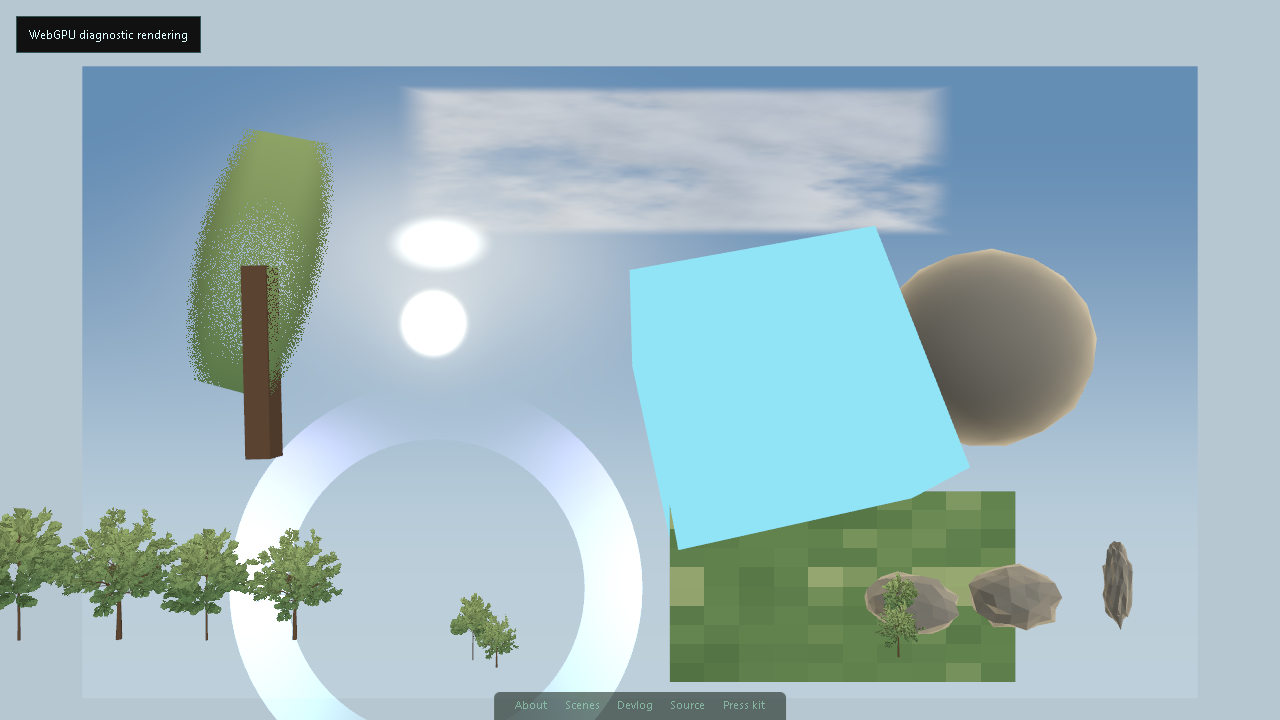
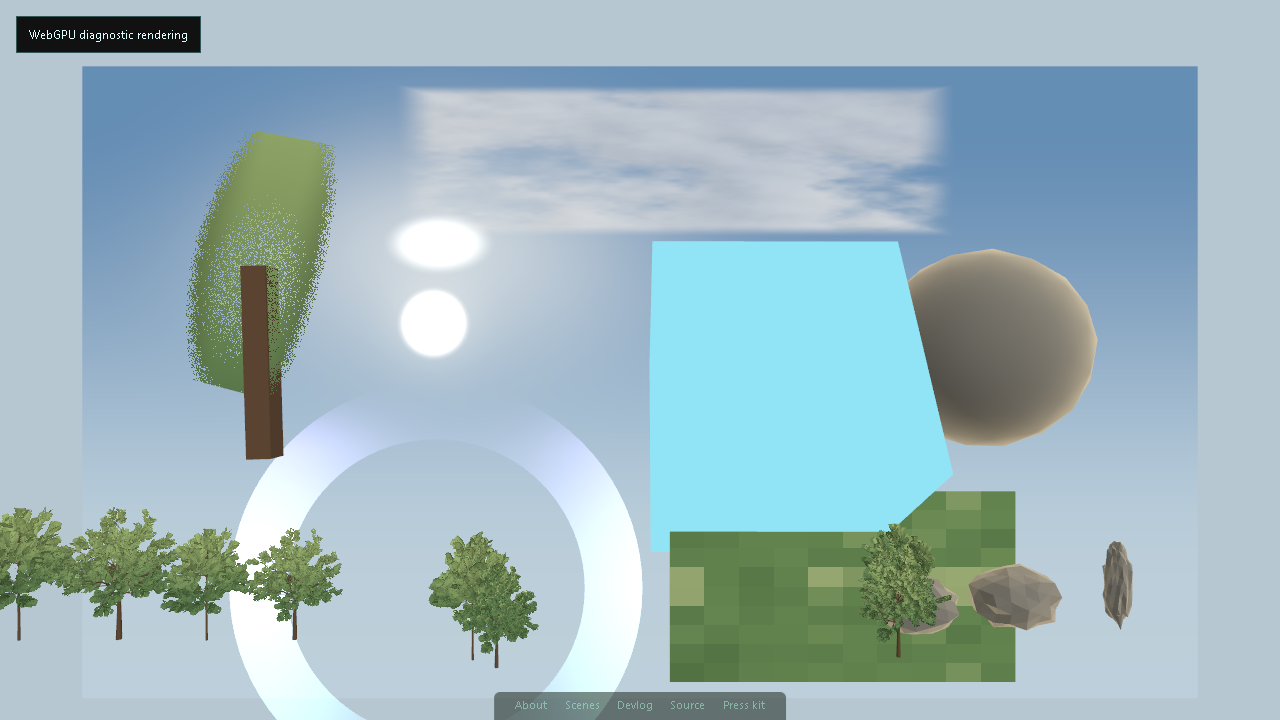
test(konveyor): prove diagnostic tree instancing

diff --git a/js/diagnostics/webgpuRuntimeGlbPreview.js b/js/diagnostics/webgpuRuntimeGlbPreview.js
@@ -176,6 +176,116 @@ function placeCloneOnGround(clone, display, { Box3, Vector3 }) {
     };
 }
 
+function collectInstancedMeshSources(root, { Matrix4 }) {
+    root.updateMatrixWorld(true);
+    const rootInverse = new Matrix4().copy(root.matrixWorld).invert();
+    const sources = [];
+
+    root.traverse((child) => {
+        if (!child.isMesh || !child.geometry) return;
+
+        child.updateMatrixWorld(true);
+        const localToRoot = new Matrix4().multiplyMatrices(rootInverse, child.matrixWorld);
+        const geometry = child.geometry.clone();
+        geometry.applyMatrix4(localToRoot);
+        geometry.computeBoundingBox();
+
+        sources.push({
+            meshName: child.name || '(unnamed)',
+            geometry,
+            material: child.material,
+            materialName: Array.isArray(child.material)
+                ? child.material.map((material) => material?.name || '(unnamed)').join(',')
+                : child.material?.name || '(unnamed)',
+            vertexCount: geometry.attributes?.position?.count ?? 0,
+        });
+    });
+
+    return sources;
+}
+
+function getRootBaseYOffset(root, { Box3 }) {
+    const box = new Box3().setFromObject(root);
+    return Number.isFinite(box.min.y) ? -box.min.y : 0;
+}
+
+function createProductionInstancingPreview({ scene, rootsByAsset, plan, extents, three }) {
+    const { Box3, InstancedMesh, Matrix4, Object3D } = three;
+    if (typeof InstancedMesh !== 'function') {
+        return {
+            roots: [],
+            summary: {
+                ok: false,
+                reason: 'webgpu-instanced-mesh-unavailable',
+            },
+        };
+    }
+
+    const roots = [];
+    const groups = [];
+    const missingTypes = [];
+    const dummy = new Object3D();
+
+    for (const type of plan.types) {
+        const samples = plan.samples.filter((sample) => sample.type === type);
+        const sourceRoot = rootsByAsset.get(`tree-lod0:${type}-lod0`);
+        if (!sourceRoot) {
+            missingTypes.push(type);
+            continue;
+        }
+
+        const baseYOffset = getRootBaseYOffset(sourceRoot, { Box3 });
+        const sources = collectInstancedMeshSources(sourceRoot, { Matrix4 });
+        for (const source of sources) {
+            const instancedMesh = new InstancedMesh(source.geometry, source.material, samples.length);
+            samples.forEach((sample, index) => {
+                const display = projectPlacementSample(sample, extents);
+                dummy.position.set(
+                    display.x,
+                    display.y + baseYOffset * display.scaleMultiplier,
+                    display.z
+                );
+                dummy.rotation.set(0, display.rotationY, 0);
+                dummy.scale.setScalar(display.scaleMultiplier);
+                dummy.updateMatrix();
+                instancedMesh.setMatrixAt(index, dummy.matrix);
+            });
+            instancedMesh.instanceMatrix.needsUpdate = true;
+            instancedMesh.frustumCulled = false;
+            scene.add(instancedMesh);
+            roots.push(instancedMesh);
+            groups.push({
+                type,
+                meshName: source.meshName,
+                materialName: source.materialName,
+                instances: samples.length,
+                isInstancedMesh: instancedMesh.isInstancedMesh === true,
+                vertexCount: source.vertexCount,
+            });
+        }
+    }
+
+    const instanceMatrices = groups.reduce((sum, group) => sum + group.instances, 0);
+    return {
+        roots,
+        summary: {
+            ok: missingTypes.length === 0
+                && groups.length > 0
+                && groups.every((group) => group.isInstancedMesh && group.instances > 0 && group.vertexCount > 0),
+            source: 'THREE.InstancedMesh',
+            productionReference: 'TerrainBuilder InstancedMesh2.addInstances',
+            instanceSource: 'shared/TreePlacement.generateTrees samples',
+            lod: 'lod0-only',
+            instancedMesh2Status: 'not imported in WebGPU diagnostic',
+            treeInstances: plan.samples.length,
+            instanceMatrices,
+            renderedInstanceMeshes: groups.length,
+            missingTypes,
+            groups,
+        },
+    };
+}
+
 async function createProductionPlacementPreview({ scene, rootsByAsset, three }) {
     const { createProductionTreePlacementPlan } = await import('./webgpuProductionPlacementPlan.js');
     const plan = createProductionTreePlacementPlan();
@@ -188,12 +298,17 @@ async function createProductionPlacementPreview({ scene, rootsByAsset, three }) 
                 renderedTrees: 0,
                 rendered: [],
             },
+            instancing: {
+                ok: false,
+                reason: 'no-placement-samples',
+            },
         };
     }
 
     const extents = createPlacementExtents(plan.samples);
     const roots = [];
     const rendered = [];
+    const instancing = createProductionInstancingPreview({ scene, rootsByAsset, plan, extents, three });
 
     for (const sample of plan.samples) {
         const sourceRoot = rootsByAsset.get(`tree-lod0:${sample.type}-lod0`);
@@ -217,13 +332,14 @@ async function createProductionPlacementPreview({ scene, rootsByAsset, three }) 
     }
 
     return {
-        roots,
+        roots: [...roots, ...instancing.roots],
         summary: {
             ...plan,
             ok: plan.ok && rendered.length === plan.samples.length,
             renderedTrees: rendered.length,
             rendered,
         },
+        instancing: instancing.summary,
     };
 }
 
@@ -250,6 +366,7 @@ export async function createRuntimeGlbPreview({
     const productionPlacementRoots = [];
     let adapter = null;
     let productionPlacementPreview = null;
+    let productionInstancingPreview = null;
 
     try {
         for (const asset of RUNTIME_GLB_RENDER_PREVIEW_ASSETS) {
@@ -282,8 +399,8 @@ export async function createRuntimeGlbPreview({
 
         for (const { asset, root } of loadedAssets) {
             const replacement = replacementByAsset.get(`${asset.group}:${asset.key}`);
+            rootsByAsset.set(`${asset.group}:${asset.key}`, root.clone(true));
             const bounds = fitAsset(asset, root, three);
-            rootsByAsset.set(`${asset.group}:${asset.key}`, root);
             scene.add(root);
             rendered.push({
                 key: asset.key,
@@ -298,6 +415,7 @@ export async function createRuntimeGlbPreview({
         const placement = await createProductionPlacementPreview({ scene, rootsByAsset, three });
         productionPlacementRoots.push(...placement.roots);
         productionPlacementPreview = placement.summary;
+        productionInstancingPreview = placement.instancing;
     } catch (err) {
         productionPlacementRoots.forEach((root) => scene.remove(root));
         loadedAssets.forEach(({ root }) => {
@@ -313,7 +431,8 @@ export async function createRuntimeGlbPreview({
         ok: rendered.every((item) => item.role === 'tree'
             ? item.replacement.missingTargets.length === 0
             : item.replacement.replacedMaterials > 0)
-            && productionPlacementPreview?.ok === true,
+            && productionPlacementPreview?.ok === true
+            && productionInstancingPreview?.ok === true,
         assets: RUNTIME_GLB_RENDER_PREVIEW_ASSETS.length,
         adapter: adapter ? {
             ok: adapter.ok,
@@ -321,6 +440,7 @@ export async function createRuntimeGlbPreview({
             rockReplacedMaterials: adapter.rockReplacedMaterials,
         } : null,
         productionPlacementPreview,
+        productionInstancingPreview,
         rendered,
         dispose() {
             productionPlacementRoots.forEach((root) => scene.remove(root));

diff --git a/js/diagnostics/webgpuDiagnostic.js b/js/diagnostics/webgpuDiagnostic.js
@@ -234,6 +234,7 @@ function createTreeLeafNodeMaterial({ MeshStandardNodeMaterial, DoubleSide, TSL 
         .mul(float(1.0).sub(occluderFade.mul(treeLeaf.occluderPeak).mul(mix(0.65, 1.0, screenHash))));
 
     const material = new MeshStandardNodeMaterial();
+    material.name = 'konveyor-node-leaves';
     material.colorNode = mix(vec3(...treeLeaf.baseColor), vec3(...treeLeaf.tipColor), posY01)
         .mul(mix(0.72, 1.14, midrib));
     material.opacityNode = alpha;
@@ -253,6 +254,7 @@ function createRockRimNodeMaterial({ MeshStandardNodeMaterial, TSL }, rockRim) {
     const rim = pow(float(1.0).sub(ndv), rockRim.rimPower).mul(rockRim.rimStrength);
 
     const material = new MeshStandardNodeMaterial();
+    material.name = 'konveyor-node-rock-rim';
     material.colorNode = vec3(...rockRim.baseColor);
     material.emissiveNode = vec3(...rockRim.rimColor).mul(rim);
     material.roughnessNode = float(0.86);
@@ -263,6 +265,7 @@ function createRockRimNodeMaterial({ MeshStandardNodeMaterial, TSL }, rockRim) {
 function createTreeBranchNodeMaterial({ MeshStandardNodeMaterial, TSL }) {
     const { float, vec3 } = TSL;
     const material = new MeshStandardNodeMaterial();
+    material.name = 'konveyor-node-branches';
     material.colorNode = vec3(0.20, 0.11, 0.055);
     material.roughnessNode = float(0.94);
     material.metalnessNode = float(0.0);
@@ -279,7 +282,7 @@ export async function bootWebGpuDiagnostic() {
         requested: true,
         ok: false,
         renderer: 'webgpu',
-        islands: ['sun-billboard', 'portal-ring', 'meadow-quad', 'cloud-plane', 'sky-fog', 'rock-rim', 'tree-leaf', 'glb-material-replacement', 'runtime-glb-material-proof', 'runtime-glb-rendered-clones', 'production-placement-preview'],
+        islands: ['sun-billboard', 'portal-ring', 'meadow-quad', 'cloud-plane', 'sky-fog', 'rock-rim', 'tree-leaf', 'glb-material-replacement', 'runtime-glb-material-proof', 'runtime-glb-rendered-clones', 'production-placement-preview', 'production-instanced-tree-preview'],
         skyFog,
         rockRim,
         treeLeaf,
@@ -287,6 +290,7 @@ export async function bootWebGpuDiagnostic() {
         runtimeGlbReplacement: null,
         runtimeGlbPreview: null,
         productionPlacementPreview: null,
+        productionInstancingPreview: null,
         frames: 0,
     };
 
@@ -339,6 +343,9 @@ export async function bootWebGpuDiagnostic() {
         DoubleSide,
         Group,
         Box3,
+        InstancedMesh,
+        Matrix4,
+        Object3D,
         Vector3,
         TSL,
     } = await loadWebGpuThree();
@@ -431,7 +438,7 @@ export async function bootWebGpuDiagnostic() {
     try {
         state.runtimeGlbPreview = await createRuntimeGlbPreview({
             scene,
-            three: { Box3, Vector3 },
+            three: { Box3, InstancedMesh, Matrix4, Object3D, Vector3 },
             createTreeBranchMaterial: () => createTreeBranchNodeMaterial({ MeshStandardNodeMaterial, TSL }),
             createTreeLeafMaterial: () => createTreeLeafNodeMaterial({ MeshStandardNodeMaterial, DoubleSide, TSL }, treeLeaf),
             createRockMaterial: () => createRockRimNodeMaterial({ MeshStandardNodeMaterial, TSL }, rockRim),
@@ -440,6 +447,7 @@ export async function bootWebGpuDiagnostic() {
             return fail('runtime GLB rendered clone proof failed');
         }
         state.productionPlacementPreview = state.runtimeGlbPreview.productionPlacementPreview;
+        state.productionInstancingPreview = state.runtimeGlbPreview.productionInstancingPreview;
     } catch (err) {
         state.runtimeGlbPreview = {
             ok: false,

diff --git a/tests/webgpu-diagnostic.spec.js b/tests/webgpu-diagnostic.spec.js
@@ -196,6 +196,11 @@ describe('webgpu runtime glb material proof', () => {
     expect(plan.generatedTrees).toBeGreaterThan(plan.sampledTrees);
     expect(plan.sampledTrees).toBe(8);
     expect(plan.types).toEqual(['tree1', 'tree2']);
+    const counts = plan.samples.reduce((acc, sample) => ({
+      ...acc,
+      [sample.type]: (acc[sample.type] ?? 0) + 1,
+    }), {});
+    expect(counts).toEqual({ tree1: 4, tree2: 4 });
     expect(plan.samples.every((sample) => Number.isFinite(sample.production.x))).toBe(true);
     expect(plan.samples.every((sample) => Number.isFinite(sample.production.z))).toBe(true);
     expect(plan.samples.every((sample) => sample.production.scale > 0)).toBe(true);

diff --git a/docs/archive/research/konveyor-shader-surface-inventory-2026-05-14.md b/docs/archive/research/konveyor-shader-surface-inventory-2026-05-14.md
@@ -33,7 +33,10 @@ adapter now exists behind `?renderer=webgpu&konveyorMaterials=1` and explicit
 WebGPU material factories. The diagnostic now also samples Rolling Hills tree
 placements from `shared/TreePlacement.generateTrees` and renders eight
 adapter-backed tree GLB samples as a production-placement preview; the default
-WebGL load still uses the current `onBeforeCompile` patches. Do not start
+WebGL load still uses the current `onBeforeCompile` patches. A follow-up
+diagnostic island renders the same samples through WebGPU `THREE.InstancedMesh`
+groups for trunks and leaves, proving LOD0 native Three instancing without
+pulling production `InstancedMesh2` into the WebGPU namespace. Do not start
 production wiring with terrain, grass, water, sheep, or Kiln impostors.
 
 ## Active ShaderMaterial Surfaces
@@ -108,6 +111,11 @@ comments:
   exclusions are intentionally empty in this proof because production rock
   placement still uses client `Math.random()` and should be handled as a
   separate placement/instancing decision.
+- `production-instanced-tree-preview` consumes the same eight samples and
+  renders four WebGPU `THREE.InstancedMesh` groups: trunk and leaves for each
+  tree type. It records 16 instance matrices across the four groups and keeps
+  the status of production `InstancedMesh2` explicit: not imported in the
+  WebGPU diagnostic, LOD0-only, no BVH/LOD/impostor migration claimed.
 - The production-side adapter in `js/world/konveyorMaterialAdapter.js` reuses
   the same tree-name and rock-traversal replacement rules for cached GLB roots.
   It only activates when `renderer=webgpu&konveyorMaterials=1` is present and
@@ -135,10 +143,12 @@ comments:
    proves all shipped tree and rock variants can load and render with WebGPU
    node-material replacements. The feature-flagged production adapter now
    exists, and the first tree-placement proof samples real Rolling Hills scene
-   data through the shared tree placement generator. The next code island
-   should decide whether to prove production instancing compatibility, add a
-   rock-placement proof, or continue with another smaller material island while
-   keeping current WebGL `onBeforeCompile` patches as default.
+   data through the shared tree placement generator. The WebGPU diagnostic now
+   also proves a LOD0-only `THREE.InstancedMesh` tree path. The next code
+   island should decide whether production `InstancedMesh2` remains WebGL-only
+   behind an adapter, whether WebGPU should use native `THREE.InstancedMesh`,
+   or whether to move to rock-placement proof / another smaller material island
+   while keeping current WebGL `onBeforeCompile` patches as default.
 2. Keep sky/fog production wiring behind parity evidence for analytic colors,
    preset screenshots, and fog consumers.
 3. Defer terrain, water, blade grass, sheep, and Kiln impostors until the

diff --git a/docs/konveyor-autonomous-run.md b/docs/konveyor-autonomous-run.md
@@ -103,7 +103,13 @@ WebGPU now has a diagnostic island, not a production renderer:
   scene data is sampled through `shared/TreePlacement.generateTrees`, and eight
   adapter-backed tree GLB samples are rendered in the WebGPU scene. This is a
   tree-placement proof only; it does not boot the production renderer, does not
-  instantiate `TerrainBuilder`/`InstancedMesh2`, and does not change WebGL.
+  instantiate `TerrainBuilder`, and does not change WebGL.
+- The diagnostic now records `production-instanced-tree-preview`: the same
+  Rolling Hills samples are rendered as four WebGPU `THREE.InstancedMesh`
+  groups, one trunk and one leaves group per tree type. This proves the current
+  production placement matrices and WebGPU node materials can survive a native
+  Three instancing path. It is LOD0-only and explicitly does not import
+  `@three.ez/instanced-mesh`/`InstancedMesh2` into the WebGPU diagnostic.
 - A production-facing tree/rock material adapter now exists behind
   `?renderer=webgpu&konveyorMaterials=1` and explicit WebGPU material factories.
   It reuses the proved tree material-name and rock traversal strategies against
@@ -132,10 +138,12 @@ Recommended order:
    against all shipped compressed tree/rock assets. The feature-flagged
    production adapter seam now exists. The first tree-placement diagnostic
    proof now samples Rolling Hills production scene data through the shared
-   tree placement generator and renders adapter-backed WebGPU tree GLB samples.
-   Next, decide whether to prove production instancing compatibility, move to
-   rock placement, or keep migrating a smaller shader/material island before
-   touching production boot.
+   tree placement generator, renders adapter-backed WebGPU tree GLB samples,
+   and proves a LOD0-only WebGPU `THREE.InstancedMesh` path for the same
+   samples. Next, decide whether `InstancedMesh2` should remain a WebGL-only
+   optimization layer, be isolated behind a renderer-specific adapter, or be
+   bypassed by native `THREE.InstancedMesh` for WebGPU before moving to rock
+   placement or another smaller shader/material island.
 2. **Keep measurement attached to every change.** Run the relevant perf,
    latency, screenshot, test, lint, and build gates before claiming progress.
 3. **Treat EZ-Tree refresh as a measured tree phase, not a side edit.** The

diff --git a/progress.md b/progress.md
@@ -35,3 +35,4 @@ Current prompt for the next autonomous run: /goal On branch exp/konveyor-webgpu-
 - 2026-05-14: Added a production-facing Konveyor tree/rock material adapter seam. `?renderer=webgpu&konveyorMaterials=1` plus explicit WebGPU material factories can now replace cached production GLB roots with the proved tree material-name and rock traversal strategies; without the flag and factories, the default WebGL `onBeforeCompile` patch path remains untouched.
 - 2026-05-14: Routed the rendered production-GLB diagnostic clone island through the production-side Konveyor material adapter. The browser proof now exercises the same adapter against all seven shipped tree/rock GLBs while default WebGL remains untouched.
 - 2026-05-14: Added a diagnostic production tree-placement preview. The WebGPU diagnostic samples Rolling Hills seed 1 through `shared/TreePlacement.generateTrees`, records 147 generated trees, and renders 8 adapter-backed tree GLB samples while the default WebGL probe remains `diagnostic: null`.
+- 2026-05-14: Added a diagnostic production instanced-tree preview. The WebGPU diagnostic now renders the same 8 Rolling Hills samples through 4 native `THREE.InstancedMesh` groups, records 16 instance matrices, and explicitly leaves production `InstancedMesh2` unimported/unclaimed.

diff --git a/docs/konveyor-sds.md b/docs/konveyor-sds.md
@@ -64,8 +64,10 @@ As of 2026-05-14, SDS is not a WebGPU project yet.
   changing production runtime wiring. A production tree-placement preview now
   samples Rolling Hills scene data through `shared/TreePlacement.generateTrees`
   and renders eight adapter-backed tree GLB samples in the WebGPU diagnostic;
-  it does not instantiate production `TerrainBuilder`/`InstancedMesh2` or
-  change production WebGL startup.
+  it does not instantiate production `TerrainBuilder` or change production
+  WebGL startup. A second diagnostic island renders those samples through
+  WebGPU `THREE.InstancedMesh` groups for trunks and leaves, proving LOD0
+  instancing compatibility without importing production `InstancedMesh2`.
   A production-facing material adapter now exists behind
   `?renderer=webgpu&konveyorMaterials=1` plus explicit WebGPU material
   factories, so cached production tree/rock GLB roots can be replaced without
